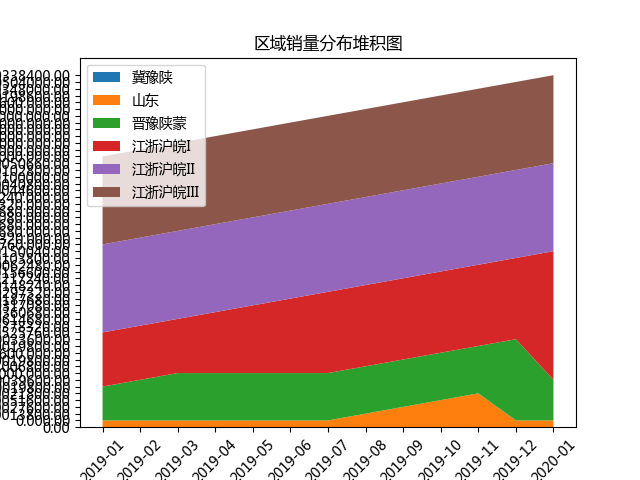
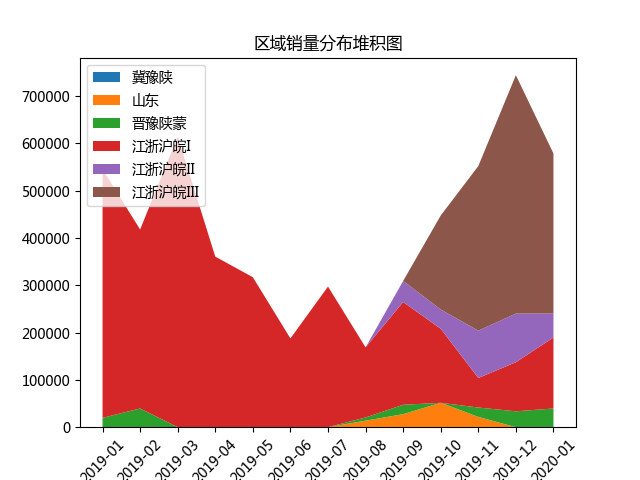
stacked plot finished

diff --git a/apps/utils/data_process.py b/apps/utils/data_process.py
@@ -100,12 +100,11 @@ class Graph:
         x = np.arange(len(df.index))
         y = []
         for i in range(len(df.columns)):
-            y.append(df.iloc[:, i])
+            y.append(df.iloc[:, i].map(lambda j: float(j)))
         xticks = range(0, len(df.index), 1)
         ax.set_xticks(xticks)
         ax.stackplot(x, y, labels=df.columns.levels[1])
         ax.set_xticklabels(xtickslabel, rotation=45)
-        ax.set_ylim(0, )
         plt.legend(loc='upper left')
 
     def ranking_bar(self, s, df_ps, df_total):
@@ -456,7 +455,6 @@ class Chandler:
         df_tmp['period'] = pd.to_datetime(p, format='%Y-%m')
         df_filled = pd.pivot_table(df_tmp, index=['period'], values=['price'], columns=['region'],
                                    aggfunc=np.sum).fillna(value=0.00).applymap("{0:.02f}".format)
-        print(df_filled)
         graph = Graph(
             title="区域销量分布堆积图",
             savefig_path="/home/murphy/sale/static/images/region_stacked_graph.png",
